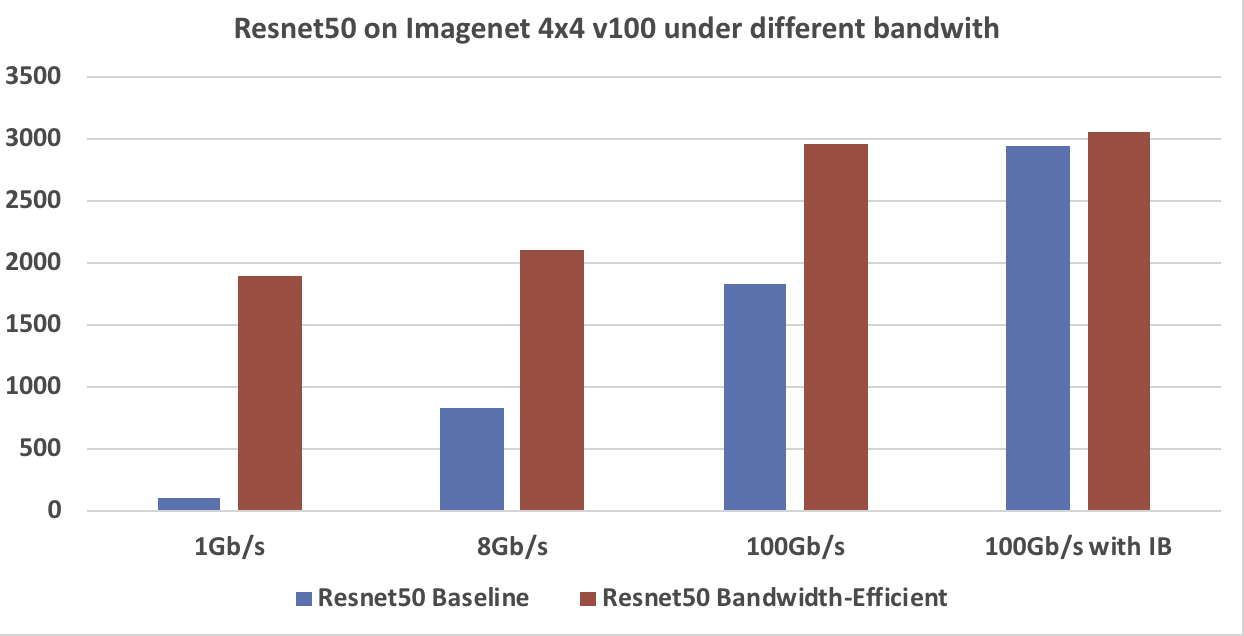
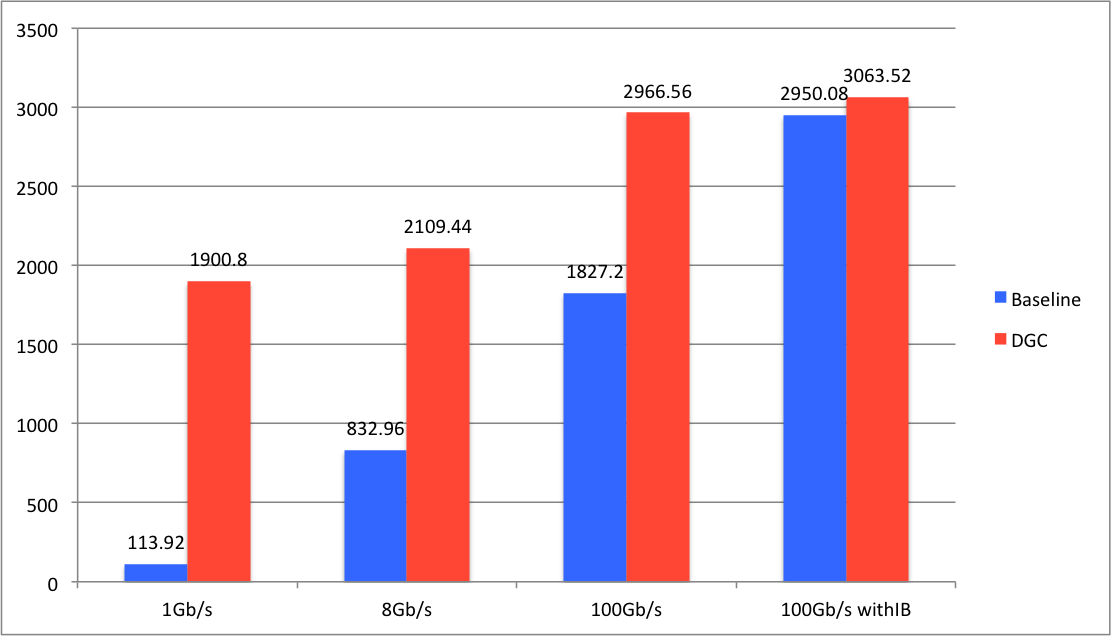
add

diff --git a/PaddleCV/image_classification/dist_train/README.md b/PaddleCV/image_classification/dist_train/README.md
@@ -108,7 +108,22 @@ The second figure shows speed-ups when using multiple GPUs according to the abov
 Speed-ups of Multiple-GPU Training of Resnet50 on Imagenet
 </p>
 
-The third figure shows performance when using DGC of resnet-fp32 under different bandwidth.
+## Deep Gradient Compression([arXiv:1712.01887](https://arxiv.org/abs/1712.01887)) for resnet
+
+#### Environment
+
+  - GPU : NVIDIA® Tesla® V100 
+  - System: Centos 6u3
+  - Cuda/Cudnn: 9.0/7.1
+  - Dataset: ImageNet
+  - Date: 2017.04
+  - PaddleVersion: 1.4
+
+#### Performance
+
 <p align="center">
 <img src="../images/resnet_dgc.png" width=528> <br />
+Performance using DGC for resnet-fp32 under different bandwidth
 </p>
+
+
